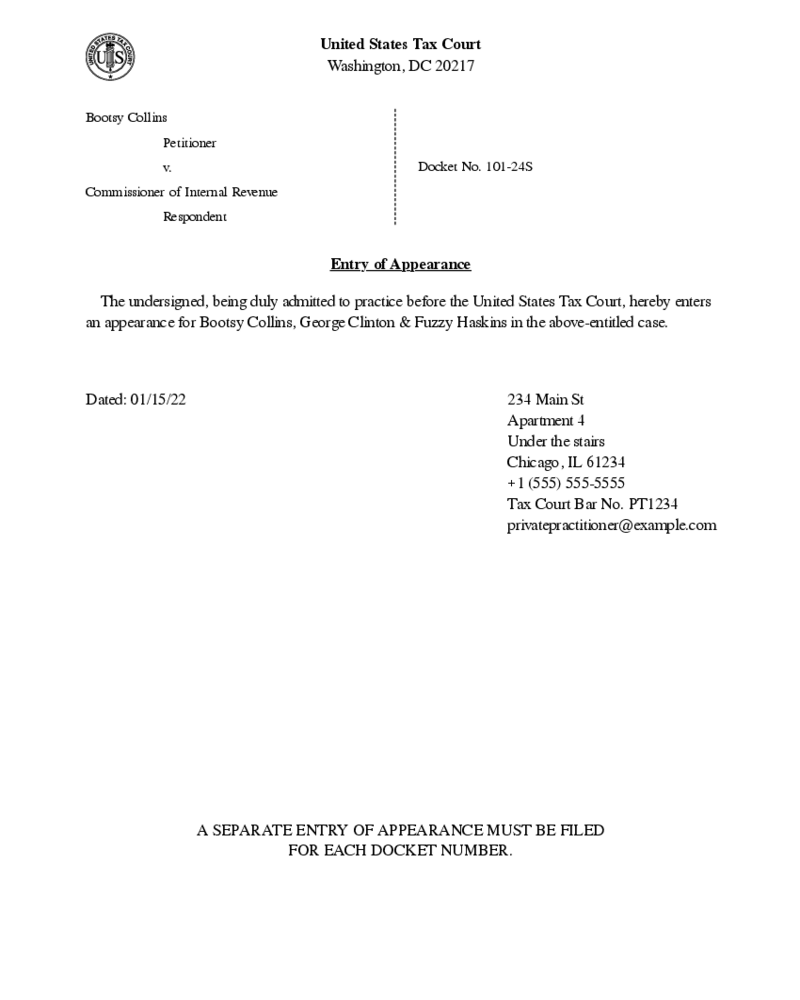
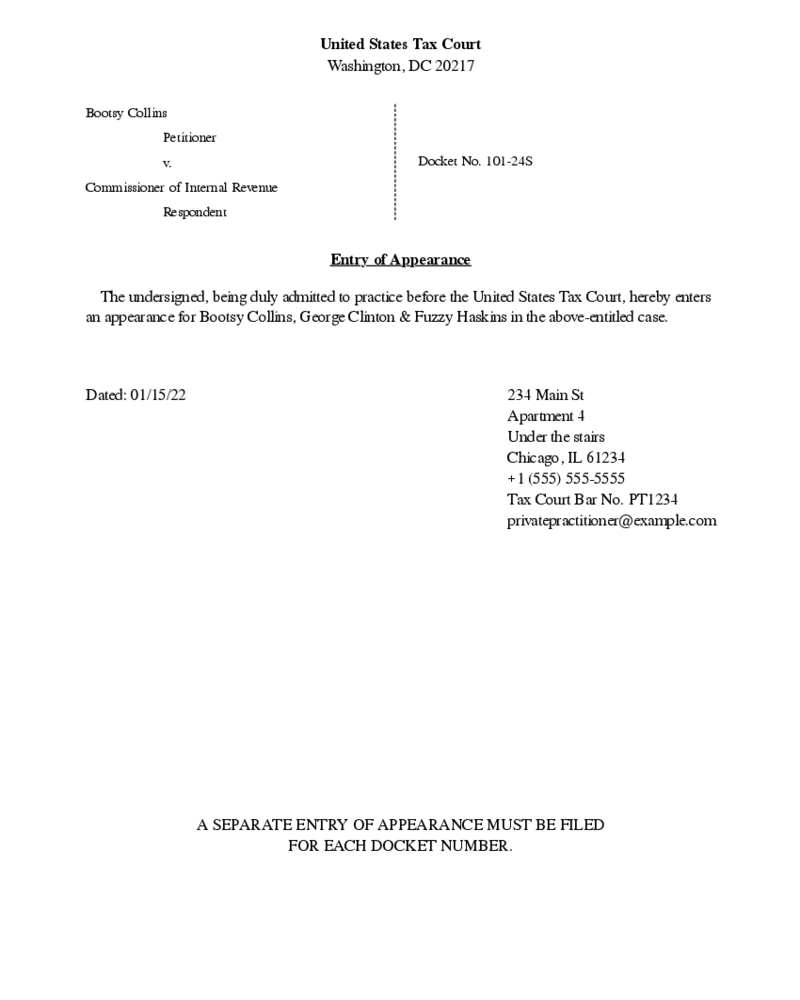
10190: Create header for generated PDFs without ustc seal, updated pdf test expected image

diff --git a/shared/src/business/utilities/pdfGenerator/documentTemplates/EntryOfAppearance.tsx b/shared/src/business/utilities/pdfGenerator/documentTemplates/EntryOfAppearance.tsx
@@ -1,6 +1,6 @@
 import { DocketHeader } from '../components/DocketHeader';
 import { PractitionerLabel } from '@shared/business/utilities/pdfGenerator/components/PractitionerLabel';
-import { PrimaryHeader } from '../components/PrimaryHeader';
+import { PrimaryHeaderWithoutSeal } from '@shared/business/utilities/pdfGenerator/components/PrimaryHeaderWithoutSeal';
 import React from 'react';
 
 export const EntryOfAppearance = ({
@@ -34,9 +34,11 @@ export const EntryOfAppearance = ({
   };
 }) => {
   const filersString = joinWithCommasAnd(filers);
+
   return (
     <div id="entry-of-appearance-pdf">
-      <PrimaryHeader />
+      <PrimaryHeaderWithoutSeal />
+
       <DocketHeader
         caseCaptionExtension={caseCaptionExtension}
         caseTitle={caseTitle}

diff --git a/shared/src/business/utilities/pdfGenerator/components/PrimaryHeaderWithoutSeal.tsx b/shared/src/business/utilities/pdfGenerator/components/PrimaryHeaderWithoutSeal.tsx
@@ -1,0 +1,11 @@
+import React from 'react';
+
+export const PrimaryHeaderWithoutSeal = () => {
+  return (
+    <div id="primary-header">
+      <h1>United States Tax Court</h1>
+      <div className="court-address">Washington, DC 20217</div>
+      <div className="clear"></div>
+    </div>
+  );
+};
